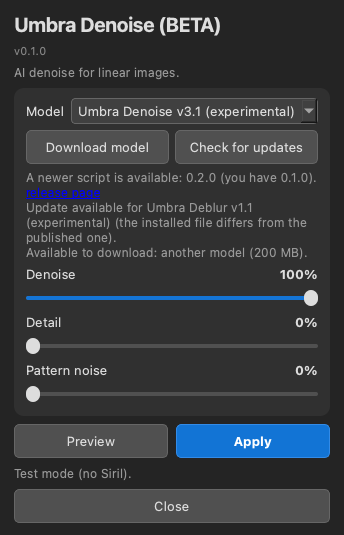
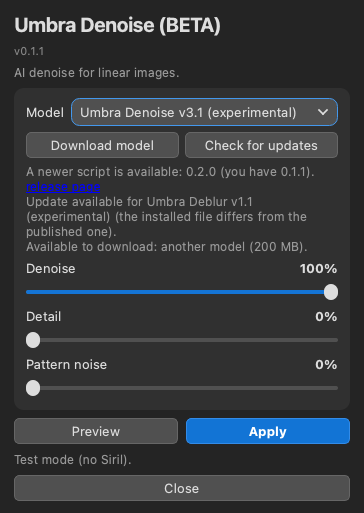
v0.1.1: buttons, check boxes, drop-downs and scroll bars styled like Umbra Astro Studio

Changed region(s): [[0.0291, 0.1871, 0.9593, 0.9669], [0.0291, 0.0936, 0.5233, 0.1559], [0.0291, 0.0312, 0.6395, 0.0624]]

diff --git a/Umbra_Denoise.py b/Umbra_Denoise.py
@@ -7,8 +7,9 @@ Run in Siril (Scripts menu), or standalone:
   python Umbra_Denoise.py --image in.fits --out out.fits [--model PATH.onnx] [--denoise 0..1] [--detail 0..1] [--pattern 0..1]
   python Umbra_Denoise.py --ui-test        (opens the window on a fake image, runs Preview once, exits)
   python Umbra_Denoise.py --check-updates | --download [MODEL_ID|all]"""
-VERSION = '0.1.0'
-# First family release (ONNX Runtime, no PyTorch): Preview window, Cancel, model download and update check, remembered settings.
+VERSION = '0.1.1'
+# 0.1.1: buttons, check boxes, drop-down menus and scroll bars now look the same as in Umbra Astro Studio.
+# 0.1.0: First family release (ONNX Runtime, no PyTorch): Preview window, Cancel, model download and update check, remembered settings.
 # ============================================================================================ shared code (src/common.py)
 # Everything the five scripts share: dependency install, ONNX Runtime sessions, updater, preferences, Siril I/O, family UI, CLI.
 import sys, os, json, hashlib, argparse, time, math, re, types
@@ -710,20 +711,34 @@ def to_rgb8(img, params, flip=False):
 STYLE = """
 QWidget { background: #242424; color: #dddddd; font-size: 10pt; }
 QWidget#Card { background: #303030; border-radius: 10px; }
-QLabel, QCheckBox, QSlider { background: transparent; }
+QLabel, QCheckBox, QRadioButton, QSlider { background: transparent; }
 QLabel#Title { font-size: 15pt; font-weight: bold; color: #dddddd; }
 QLabel#Badge { color: #888888; font-size: 8pt; }
 QLabel#Note { color: #999999; font-size: 9pt; }
 QLabel#Value { color: #dddddd; font-weight: bold; min-width: 40px; }
 QLabel#Caption { color: #aaaaaa; font-size: 9pt; }
-QComboBox { background: #404040; border: 1px solid #666666; border-radius: 4px; padding: 3px 6px; }
-QComboBox QAbstractItemView { background: #303030; selection-background-color: #1274d5; }
-QPushButton { min-height: 20px; background: #505050; border: 1px solid #666666; border-radius: 5px; padding: 6px 12px; }
+QToolTip { color: #dddddd; background: #404040; border: 1px solid #666666; padding: 6px; }
+QCheckBox { spacing: 4px; background: transparent; }
+QCheckBox::indicator { width: 12px; height: 12px; border: 1px solid #777777; border-radius: 3px; background: #3c3c3c; }
+QCheckBox::indicator:checked { background: #1679db; border-color: #6eb5ff; }
+QCheckBox::indicator:disabled { border-color: #555555; background: #2e2e2e; }
+QComboBox { background: transparent; border: none; padding: 5px 25px 5px 9px; min-height: 18px; }
+QComboBox QAbstractItemView { background: #3d3d3d; color: #dddddd; border: 1px solid #666666; border-radius: 9px; padding: 5px; selection-background-color: #1679db; outline: 0; }
+QComboBox QAbstractItemView::item { padding: 5px 8px; border-radius: 5px; }
+QPushButton { background: #505050; border: 1px solid #666666; border-radius: 5px; padding: 4px 7px; }
 QPushButton:hover { background: #616161; }
-QPushButton:checked { background: #1274d5; border-color: #338be7; color: #ffffff; }
+QPushButton:checked { background: #1474d5; border-color: #358eef; }
 QPushButton:disabled { color: #777777; border-color: #444444; }
-QPushButton#Apply { min-height: 20px; background: #1274d5; color: #ffffff; font-weight: bold; border-color: #338be7; }
+QPushButton#Apply { background: #1274d5; color: #ffffff; font-weight: bold; border-color: #338be7; }
 QPushButton#Apply:disabled { background: #354656; color: #808890; border-color: #43505c; }
+QScrollArea { border: none; background: #242424; }
+QScrollBar:vertical { background: #242424; width: 8px; margin: 0; }
+QScrollBar::handle:vertical { background: #555555; border-radius: 4px; min-height: 24px; }
+QScrollBar::add-line:vertical, QScrollBar::sub-line:vertical { height: 0; }
+QScrollBar:horizontal { background: #242424; height: 8px; margin: 0; }
+QScrollBar::handle:horizontal { background: #555555; border-radius: 4px; min-width: 24px; }
+QScrollBar::add-line:horizontal, QScrollBar::sub-line:horizontal { width: 0; }
+QScrollBar::add-page:horizontal, QScrollBar::sub-page:horizontal, QScrollBar::add-page:vertical, QScrollBar::sub-page:vertical { background: transparent; }
 QSlider::groove:horizontal { height: 4px; background: #505050; border-radius: 2px; }
 QSlider::sub-page:horizontal { background: #1474d5; border-radius: 2px; }
 QSlider::handle:horizontal { background: #dddddd; width: 14px; margin: -6px 0; border-radius: 7px; }
@@ -745,6 +760,45 @@ def _qt():
     from PyQt6.QtGui import QImage, QPixmap
     from PyQt6.QtWidgets import (QApplication, QWidget, QLabel, QVBoxLayout, QHBoxLayout, QPushButton, QSlider, QProgressBar,
                                  QComboBox, QCheckBox, QSizePolicy, QStackedWidget, QMenu, QLayout)
+
+    from PyQt6.QtCore import QPointF, QRectF
+    from PyQt6.QtGui import QPainter, QPen, QColor
+    from PyQt6.QtWidgets import QListView, QFrame
+
+    class ModernComboBox(QComboBox):
+        """Rounded drop-down, drawn the same on every platform (same look as Umbra Astro Studio)."""
+        def __init__(self, parent=None):
+            super().__init__(parent)
+            self.setMinimumHeight(28)
+            self.setCursor(Qt.CursorShape.PointingHandCursor)
+            view = QListView(self); view.setFrameShape(QFrame.Shape.NoFrame); view.setSpacing(1); self.setView(view)
+
+        def paintEvent(self, event):
+            p = QPainter(self); p.setRenderHint(QPainter.RenderHint.Antialiasing)
+            p.setPen(QPen(QColor('#4398ed') if self.hasFocus() else QColor('#666666'), 1))
+            p.setBrush(QColor('#606060') if (self.underMouse() and self.isEnabled()) else QColor('#505050'))
+            p.drawRoundedRect(QRectF(.5, .5, self.width() - 1, self.height() - 1), 8, 8)
+            p.setPen(QColor('#dddddd') if self.isEnabled() else QColor('#888888')); p.setFont(self.font())
+            text = self.fontMetrics().elidedText(self.currentText(), Qt.TextElideMode.ElideRight, max(1, self.width() - 35))
+            p.drawText(self.rect().adjusted(9, 0, -27, 0), Qt.AlignmentFlag.AlignVCenter | Qt.AlignmentFlag.AlignLeft, text)
+            cx, cy = self.width() - 15, self.height() / 2
+            p.setPen(QPen(QColor('#dddddd') if self.isEnabled() else QColor('#888888'), 1.7))
+            p.drawLine(QPointF(cx - 4, cy - 2), QPointF(cx, cy + 2)); p.drawLine(QPointF(cx, cy + 2), QPointF(cx + 4, cy - 2)); p.end()
+
+        def enterEvent(self, event):
+            super().enterEvent(event); self.update()
+
+        def leaveEvent(self, event):
+            super().leaveEvent(event); self.update()
+
+        def showPopup(self):
+            super().showPopup()
+            container = self.view().window()
+            container.setAttribute(Qt.WidgetAttribute.WA_TranslucentBackground, True)
+            container.setObjectName('RoundedComboPopup')
+            container.setStyleSheet('QFrame#RoundedComboPopup {background:#3d3d3d;border:1px solid #666666;border-radius:10px;padding:4px;} '
+                                    'QListView {background:#3d3d3d;color:#dddddd;border:none;border-radius:7px;padding:3px;outline:0;} '
+                                    'QListView::item {padding:5px 8px;border-radius:5px;} QListView::item:selected {background:#1679db;}')
 
     class Worker(QThread):
         done = pyqtSignal(object, object, float, str, object)
@@ -911,7 +965,7 @@ def _qt():
             row = QHBoxLayout()
             label = QLabel(text)
             row.addWidget(label)
-            cb = QComboBox()
+            cb = ModernComboBox()
             for t, v in items:
                 cb.addItem(t, v)
             if tip:
@@ -973,16 +1027,16 @@ def _qt():
             cl.setContentsMargins(12, 10, 12, 12)
             mrow = QHBoxLayout()
             mrow.addWidget(QLabel('Model'))
-            self.model_box = QComboBox()
+            self.model_box = ModernComboBox()
             mrow.addWidget(self.model_box, 1)
             cl.addLayout(mrow)
             brow = QHBoxLayout()
             self.dl_btn = QPushButton('Download model')
-            self.dl_btn.setMinimumHeight(30)
+            self.dl_btn.setMinimumHeight(26)
             self.dl_btn.setToolTip("Download a model from this project's GitHub releases (checked against a SHA-256 before it is installed).")
             self.dl_btn.clicked.connect(self.show_dl_menu)
             self.upd_btn = QPushButton('Check for updates')
-            self.upd_btn.setMinimumHeight(30)
+            self.upd_btn.setMinimumHeight(26)
             self.upd_btn.setToolTip('Looks for newer models and a newer script. Nothing is downloaded or replaced until you ask.')
             self.upd_btn.clicked.connect(lambda: self.fetch_info(manual=True))
             brow.addWidget(self.dl_btn); brow.addWidget(self.upd_btn)
@@ -1349,7 +1403,7 @@ def _qt():
                 tl.addWidget(QLabel(f'v{VERSION}', objectName='Badge'))
                 row = QHBoxLayout()
                 row.addWidget(QLabel('Tool'))
-                self.tool_box = QComboBox()
+                self.tool_box = ModernComboBox()
                 for s in specs:
                     self.tool_box.addItem(s.name, s.key)
                 row.addWidget(self.tool_box, 1)

diff --git a/README.md b/README.md
@@ -2,7 +2,7 @@
 
 Umbra Denoise is an AI noise remover for linear images in [Siril](https://siril.org). It is a Siril Python script with an AI model. It runs locally on your computer and is free. It was trained for small-scope stacks (Seestar, Dwarf and similar) and also works on DSLR and mono data.
 
-**Status: Beta (v0.1.0).** Expect rough edges.
+**Status: Beta (v0.1.1).** Expect rough edges.
 
 ![Umbra Denoise panel](docs/screenshots/Umbra_Denoise_panel.png)
 
@@ -86,7 +86,7 @@ Small images: the model uses fixed 512 px tiles and its attention depends on the
 
 ## Layout
 
-- `Umbra_Denoise.py`: the script (v0.1.0, ONNX Runtime, with model download and update check)
+- `Umbra_Denoise.py`: the script (v0.1.1, ONNX Runtime, with model download and update check)
 - `models/models.json`: model manifest (name, version, download URL, SHA-256, size)
 - `docs/screenshots/`: panel screenshots
 - `LICENSE`, `LICENSE-MODELS.md`: licenses
